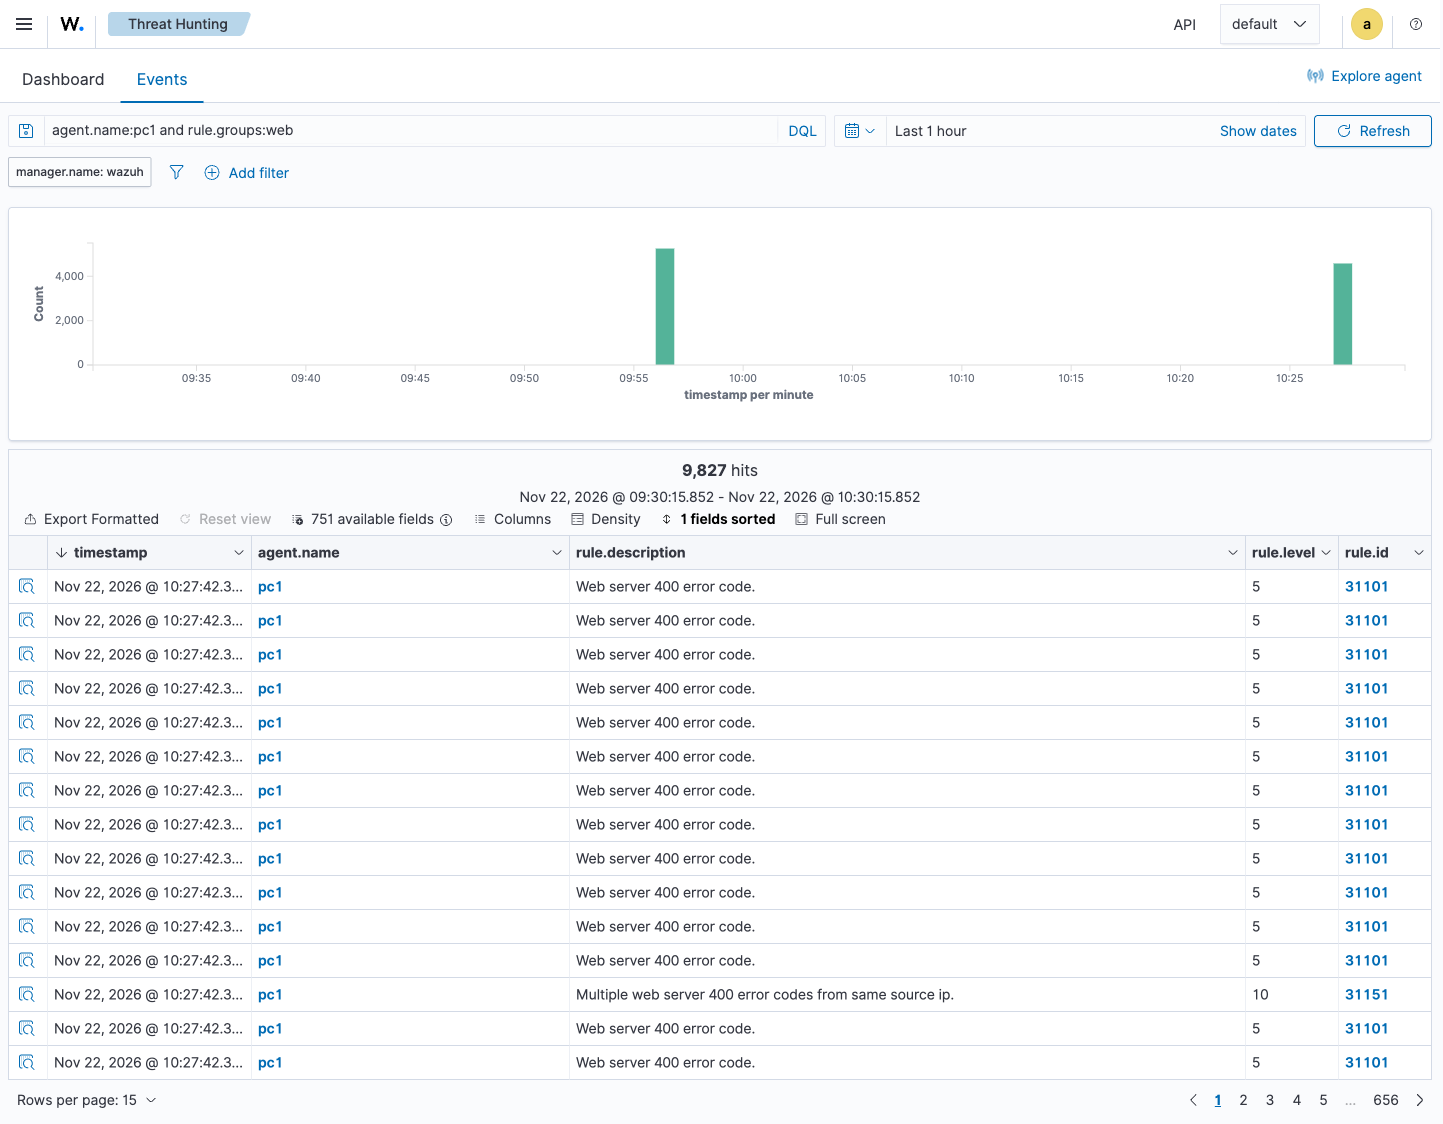
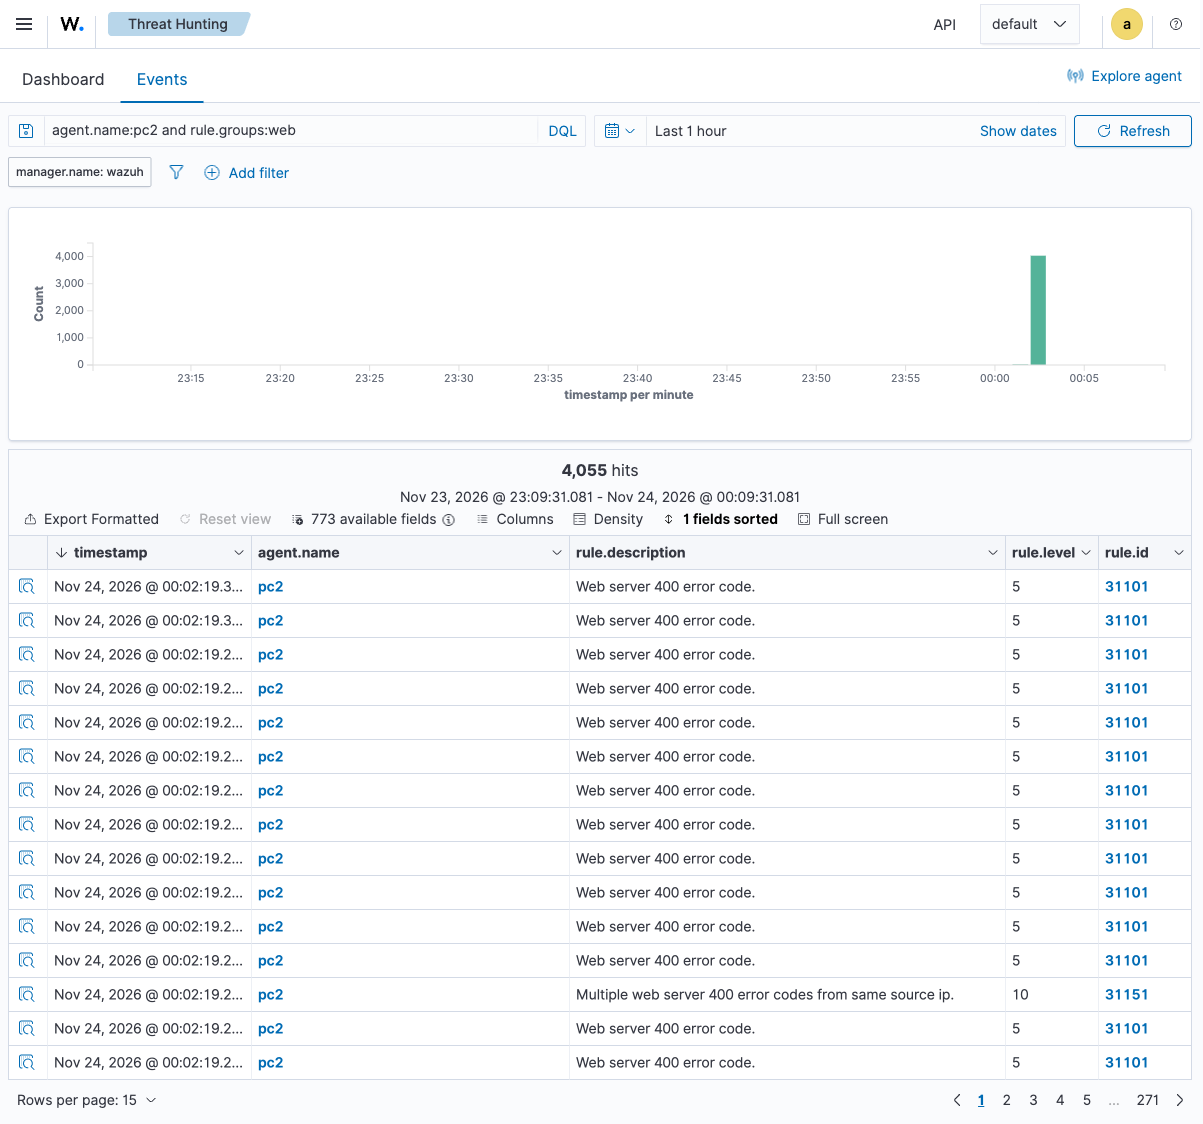
Ajouter pc3 et répartir les attaques par poste
- 3 postes identiques (hôtes vulnérables) ; le routeur dirige un service
  différent vers chacun, ce qui répartit les attaques :
  SSH:22 -> pc1 (brute force + post-ex), web:80 -> pc2 (scan web),
  SSH:2222 -> pc3 (dépôt de malware EICAR).
- Dans Wazuh, chaque agent.name montre une attaque distincte.
- provision/pc1.sh -> weakhost.sh, fim-pc1.sh -> fim.sh (génériques, 3 postes).
- Détection sudo répétable : règle 5402 (sudo root) au lieu de 5403 (1re fois).
- tests/check.sh : section cibles (3 postes), DNAT x3, agents x4 ; web->pc2,
  EICAR->pc3. Captures du runbook régénérées (web=pc2, EICAR=pc3).

diff --git a/README.md b/README.md
@@ -11,22 +11,31 @@ apparaître en temps réel.
                         carte NAT Vagrant (vrai Internet, pour apt)
                                   │
 [attacker] ─(wan)─ [router + Suricata] ─(lan = le switch)─┬─ wazuh   192.168.10.10
-203.0.113.66       WAN 203.0.113.1                        ├─ pc1     192.168.10.11  (SSH + web exposés)
-                   LAN 192.168.10.1                        └─ pc2     192.168.10.12
+203.0.113.66       WAN 203.0.113.1                        ├─ pc1     192.168.10.11
+                   LAN 192.168.10.1                        ├─ pc2     192.168.10.12
+                                                           └─ pc3     192.168.10.13
 ```
 
 Le « switch » est un réseau interne VirtualBox (`lan`). Le réseau `wan` est un Internet simulé.
 Tout le trafic des postes vers Internet passe par le routeur, donc Suricata le voit.
 
+Les 3 postes sont identiques, mais le routeur dirige un service différent vers chacun, ce qui
+**répartit les attaques** (une par poste, visible séparément dans Wazuh) :
+
+| Port exposé (sur 203.0.113.1) | Poste ciblé | Attaque |
+|---|---|---|
+| `22` (SSH) | **pc1** | brute force SSH + post-exploitation |
+| `80` (web) | **pc2** | scan web (nikto) |
+| `2222` (SSH) | **pc3** | dépôt de malware (EICAR) |
+
 | VM | Rôle | RAM |
 |----|------|-----|
 | router | Routeur/pare-feu nftables + NAT + Suricata + agent Wazuh | 1 Go |
 | wazuh | Wazuh all-in-one (indexer + manager + dashboard) | 6 Go |
-| pc1 | Poste avec SSH et site web exposés, agent Wazuh | 1 Go |
-| pc2 | Poste, agent Wazuh | 1 Go |
+| pc1 / pc2 / pc3 | Postes vulnérables (nginx + SSH faible + FIM), agent Wazuh | 1 Go ×3 |
 | attacker | Attaquant externe (nmap, hydra, nikto) | 1 Go |
 
-Total ≈ 10 Go de RAM. Prévois une machine avec au moins 16 Go.
+Total ≈ 11 Go de RAM. Prévois une machine avec au moins 16 Go.
 
 ## Prérequis (Windows, Linux ou macOS)
 
@@ -99,19 +108,21 @@ Pour le changer, modifie `ADMIN_PW` dans `provision/wazuh.sh` puis `vagrant prov
 vagrant ssh attacker
 ```
 
-| # | Attaque | Commande | Où regarder dans le dashboard (Threat Hunting → filtre) |
-|---|---------|----------|---------------------------------------------------------|
-| 1 | Scan de ports | `sudo nmap -sS -sV -sC -p 22,80,443,1433,3306,3389 203.0.113.1` | `data.src_ip:203.0.113.66` |
-| 2 | Brute force SSH | `hydra -l admin -P ~/wordlist.txt -t 4 ssh://203.0.113.1` | `agent.name:pc1 and rule.groups:authentication_failures` |
-| 3 | Scan web | `nikto -h http://203.0.113.1 -maxtime 60s` | `agent.name:pc1 and rule.groups:web` |
-| 4 | Post-exploitation | `ssh admin@203.0.113.1` puis `sudo useradd -m backdoor` + dépôt d'un webshell | `agent.name:pc1 and (rule.id:5902 or rule.id:5403 or rule.id:554)` |
-| 5 | Dépôt de malware (EICAR) | déposer le fichier de test EICAR dans `/var/www/html` | `agent.name:pc1 and rule.id:554 and syscheck.path:*eicar*` |
+Chaque attaque vise un poste différent (via le port exposé), donc on la retrouve sur l'agent
+correspondant dans Wazuh.
 
-Le brute force (#2) **réussit** : le compte `admin` / `admin123` de pc1 est une **faille
-volontaire** pour la démo. Après plusieurs échecs tu verras une alerte de connexion réussie.
-Les scénarios 4 et 5 enchaînent dessus : `admin` peut passer **root sans mot de passe** (autre
-misconfig volontaire), et Wazuh détecte l'escalade, le nouveau compte et les fichiers déposés
-grâce à la **surveillance d'intégrité (FIM) en temps réel** sur pc1.
+| # | Cible | Attaque | Commande | Filtre dashboard (`agent.name:`) |
+|---|---|---------|----------|----------------------------------|
+| 1 | router | Scan de ports | `sudo nmap -sS -sV -p 22,80,443,2222 203.0.113.1` | `data.src_ip:203.0.113.66` |
+| 2 | **pc1** | Brute force SSH | `hydra -l admin -P ~/wordlist.txt -t 4 ssh://203.0.113.1` | `agent.name:pc1 and rule.groups:authentication_failures` |
+| 3 | **pc2** | Scan web | `nikto -h http://203.0.113.1 -maxtime 60s` | `agent.name:pc2 and rule.groups:web` |
+| 4 | **pc1** | Post-exploitation | `ssh admin@203.0.113.1` → `sudo useradd -m backdoor` + webshell | `agent.name:pc1 and (rule.id:5902 or rule.id:5402 or rule.id:5403 or rule.id:554)` |
+| 5 | **pc3** | Dépôt de malware (EICAR) | `ssh -p 2222 admin@203.0.113.1` → déposer le fichier EICAR | `agent.name:pc3 and rule.id:554 and syscheck.path:*eicar*` |
+
+Le brute force (#2) **réussit** : le compte `admin` / `admin123` (présent sur chaque poste) est
+une **faille volontaire**. Les scénarios 4 et 5 enchaînent dessus : `admin` peut passer **root
+sans mot de passe** (autre misconfig volontaire), et Wazuh détecte l'escalade, le nouveau compte
+et les fichiers déposés grâce à la **surveillance d'intégrité (FIM) en temps réel** sur les postes.
 
 > 📸 **Démonstration pas à pas avec captures d'écran du dashboard :**
 > [`docs/scenario-demo-attaque.md`](docs/scenario-demo-attaque.md) — runbook reproductible

diff --git a/docs/scenario-demo-attaque.md b/docs/scenario-demo-attaque.md
@@ -4,7 +4,7 @@ Runbook reproductible : on lance trois attaques depuis la machine attaquante ext
 les visualise en temps réel dans le dashboard Wazuh. Captures d'écran prises sur ce lab.
 
 ```
-[attacker] ──(Internet simulé)──► [router + Suricata] ──(LAN)──► pc1, pc2, wazuh
+[attacker] ──(Internet simulé)──► [router + Suricata] ──(LAN)──► pc1, pc2, pc3, wazuh
 203.0.113.66                       203.0.113.1                    agents Wazuh
 ```
 
@@ -16,7 +16,7 @@ Le lab est démarré et les 4 agents sont actifs :
 
 ```bash
 vagrant up                       # si ce n'est pas déjà fait
-vagrant ssh wazuh -c "sudo /var/ossec/bin/agent_control -l"   # doit lister router, pc1, pc2 en Active
+vagrant ssh wazuh -c "sudo /var/ossec/bin/agent_control -l"   # doit lister router, pc1, pc2, pc3 en Active
 ```
 
 Ouvre le dashboard sur **https://localhost:8443** (accepte le certificat autosigné — sous
@@ -102,12 +102,14 @@ empile les tentatives échouées successives.
 > Pour prouver que l'intrusion a **abouti**, filtre sur `agent.name:pc1 and rule.id:40112`
 > (« connexion réussie après une série d'échecs » — le cœur d'un scénario de compromission).
 
-### 2.4 Scénario « scan web (nikto) »
+### 2.4 Scénario « scan web (nikto) » → pc2
+
+Le port 80 est routé vers **pc2** ; `nikto -h http://203.0.113.1` scanne donc le serveur web de pc2.
 
 Filtre :
 
 ```
-agent.name:pc1 and rule.groups:web
+agent.name:pc2 and rule.groups:web
 ```
 
 ![Alertes du scan web](images/07-webscan-events.png)
@@ -132,7 +134,7 @@ echo '<?php system($_GET[c]); ?>' | sudo tee /var/www/html/shell.php   # webshel
 Filtre :
 
 ```
-agent.name:pc1 and (rule.id:5902 or rule.id:5403 or rule.id:554)
+agent.name:pc1 and (rule.id:5902 or rule.id:5402 or rule.id:5403 or rule.id:554)
 ```
 
 ![Chaîne de post-exploitation](images/08-postex-events.png)
@@ -141,11 +143,14 @@ On voit toute la **kill chain** sur pc1 : **escalade de privilèges** (*First ti
 sudo*, règle 5403), **persistance** (*New user added to the system*, règle 5902, niveau 8), et
 **dépôt de fichier** dans le web root (*File added to the system*, règle 554 via le FIM temps réel).
 
-### 2.6 Scénario « dépôt de malware (EICAR) »
+### 2.6 Scénario « dépôt de malware (EICAR) » → pc3
 
-Toujours sur pc1, l'attaquant dépose le fichier de test antivirus standard **EICAR** :
+Cette fois l'attaquant vise **pc3** (exposé en SSH sur le port **2222**) et y dépose le fichier
+de test antivirus standard **EICAR** :
 
 ```bash
+sshpass -p admin123 ssh -p 2222 admin@203.0.113.1
+# puis, sur pc3 :
 printf 'X5O!P%%@AP[4\\PZX54(P^)7CC)7}$EICAR-STANDARD-ANTIVIRUS-TEST-FILE!$H+H*' \
   | sudo tee /var/www/html/eicar.com
 ```
@@ -153,7 +158,7 @@ printf 'X5O!P%%@AP[4\\PZX54(P^)7CC)7}$EICAR-STANDARD-ANTIVIRUS-TEST-FILE!$H+H*' 
 Filtre :
 
 ```
-agent.name:pc1 and rule.id:554 and syscheck.path:*eicar*
+agent.name:pc3 and rule.id:554 and syscheck.path:*eicar*
 ```
 
 Déplie l'alerte (🔍) :
@@ -174,9 +179,9 @@ Le **FIM en temps réel** (`decoder: syscheck_new_entry`) a capté la création 
 | Scan réseau (Suricata) | `data.src_ip:203.0.113.66 and rule.groups:suricata` |
 | Brute force SSH | `agent.name:pc1 and rule.groups:authentication_failures` |
 | Intrusion réussie après brute force | `agent.name:pc1 and rule.id:40112` |
-| Scan web | `agent.name:pc1 and rule.groups:web` |
-| Post-exploitation (escalade + persistance) | `agent.name:pc1 and (rule.id:5902 or rule.id:5403 or rule.id:554)` |
-| Dépôt de malware EICAR (FIM) | `agent.name:pc1 and rule.id:554 and syscheck.path:*eicar*` |
+| Scan web | `agent.name:pc2 and rule.groups:web` |
+| Post-exploitation (escalade + persistance) | `agent.name:pc1 and (rule.id:5902 or rule.id:5402 or rule.id:5403 or rule.id:554)` |
+| Dépôt de malware EICAR (FIM) | `agent.name:pc3 and rule.id:554 and syscheck.path:*eicar*` |
 
 ---
 
